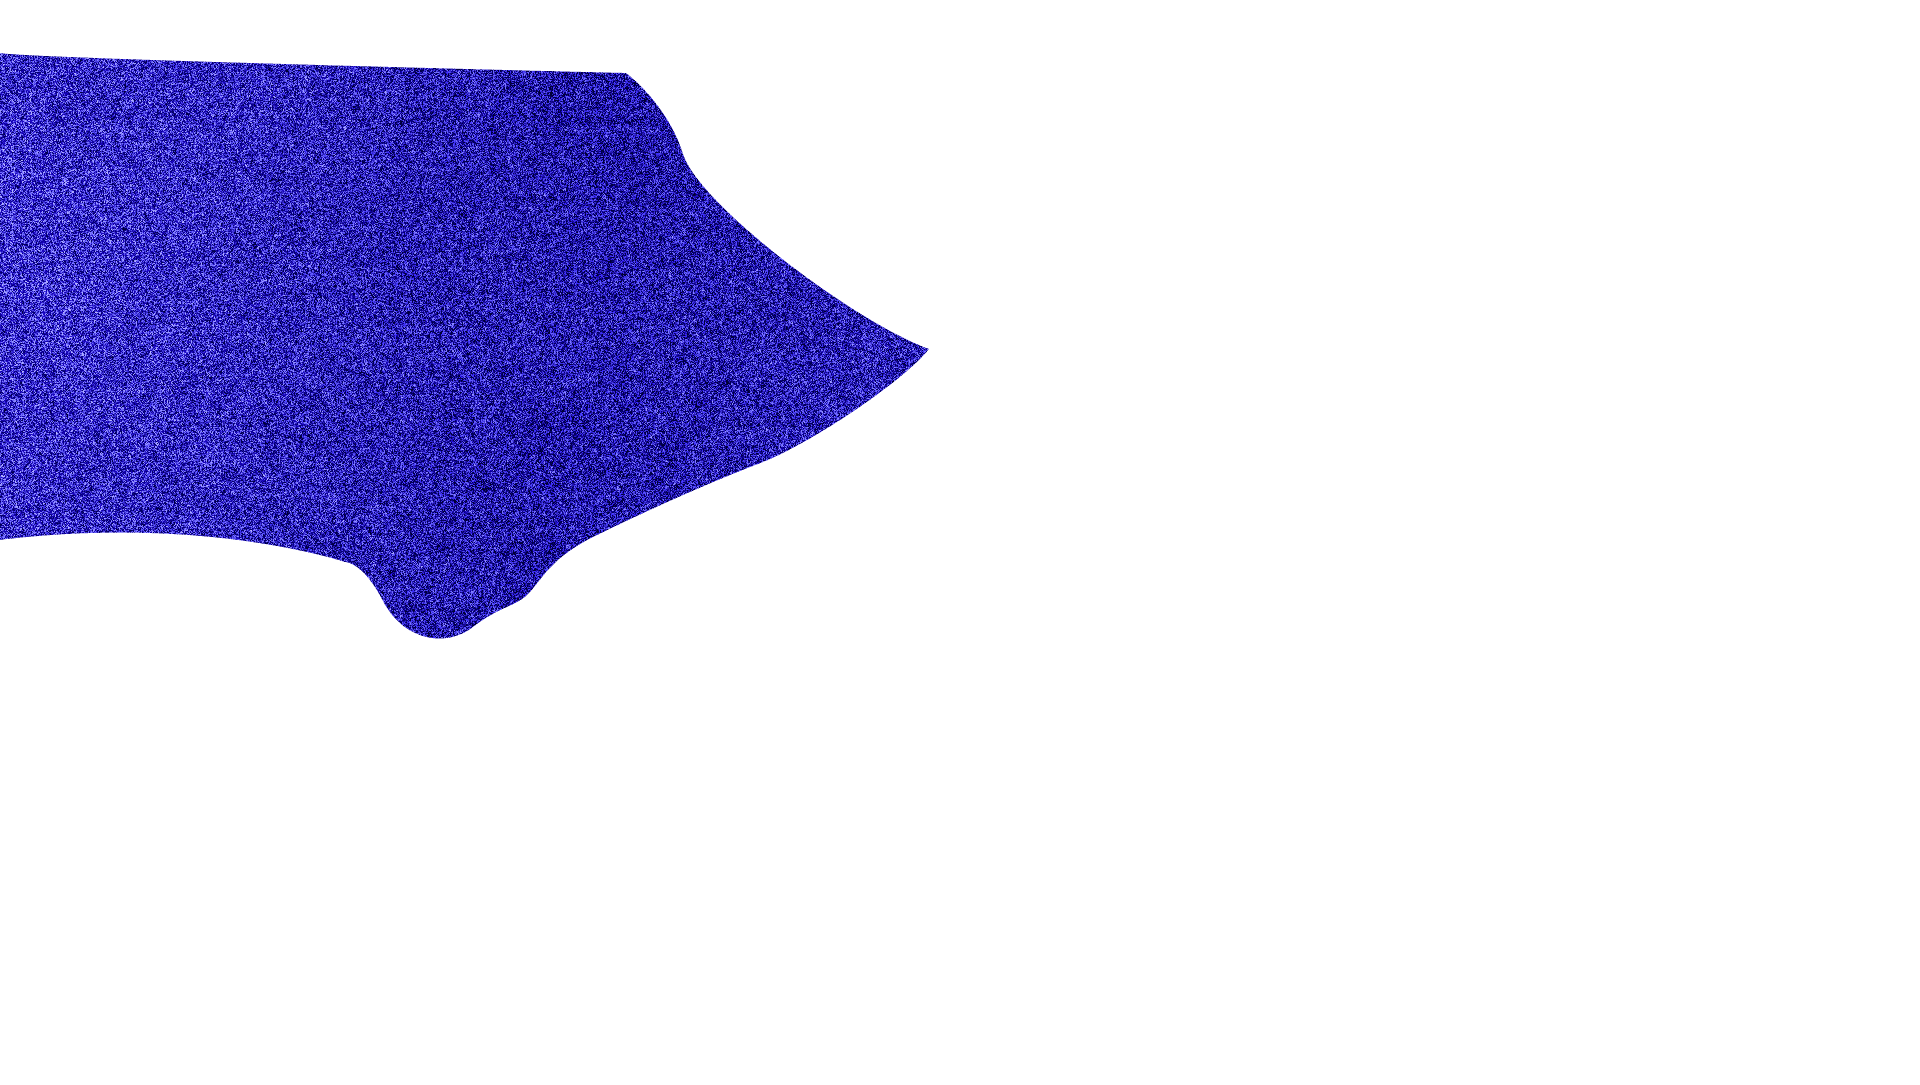
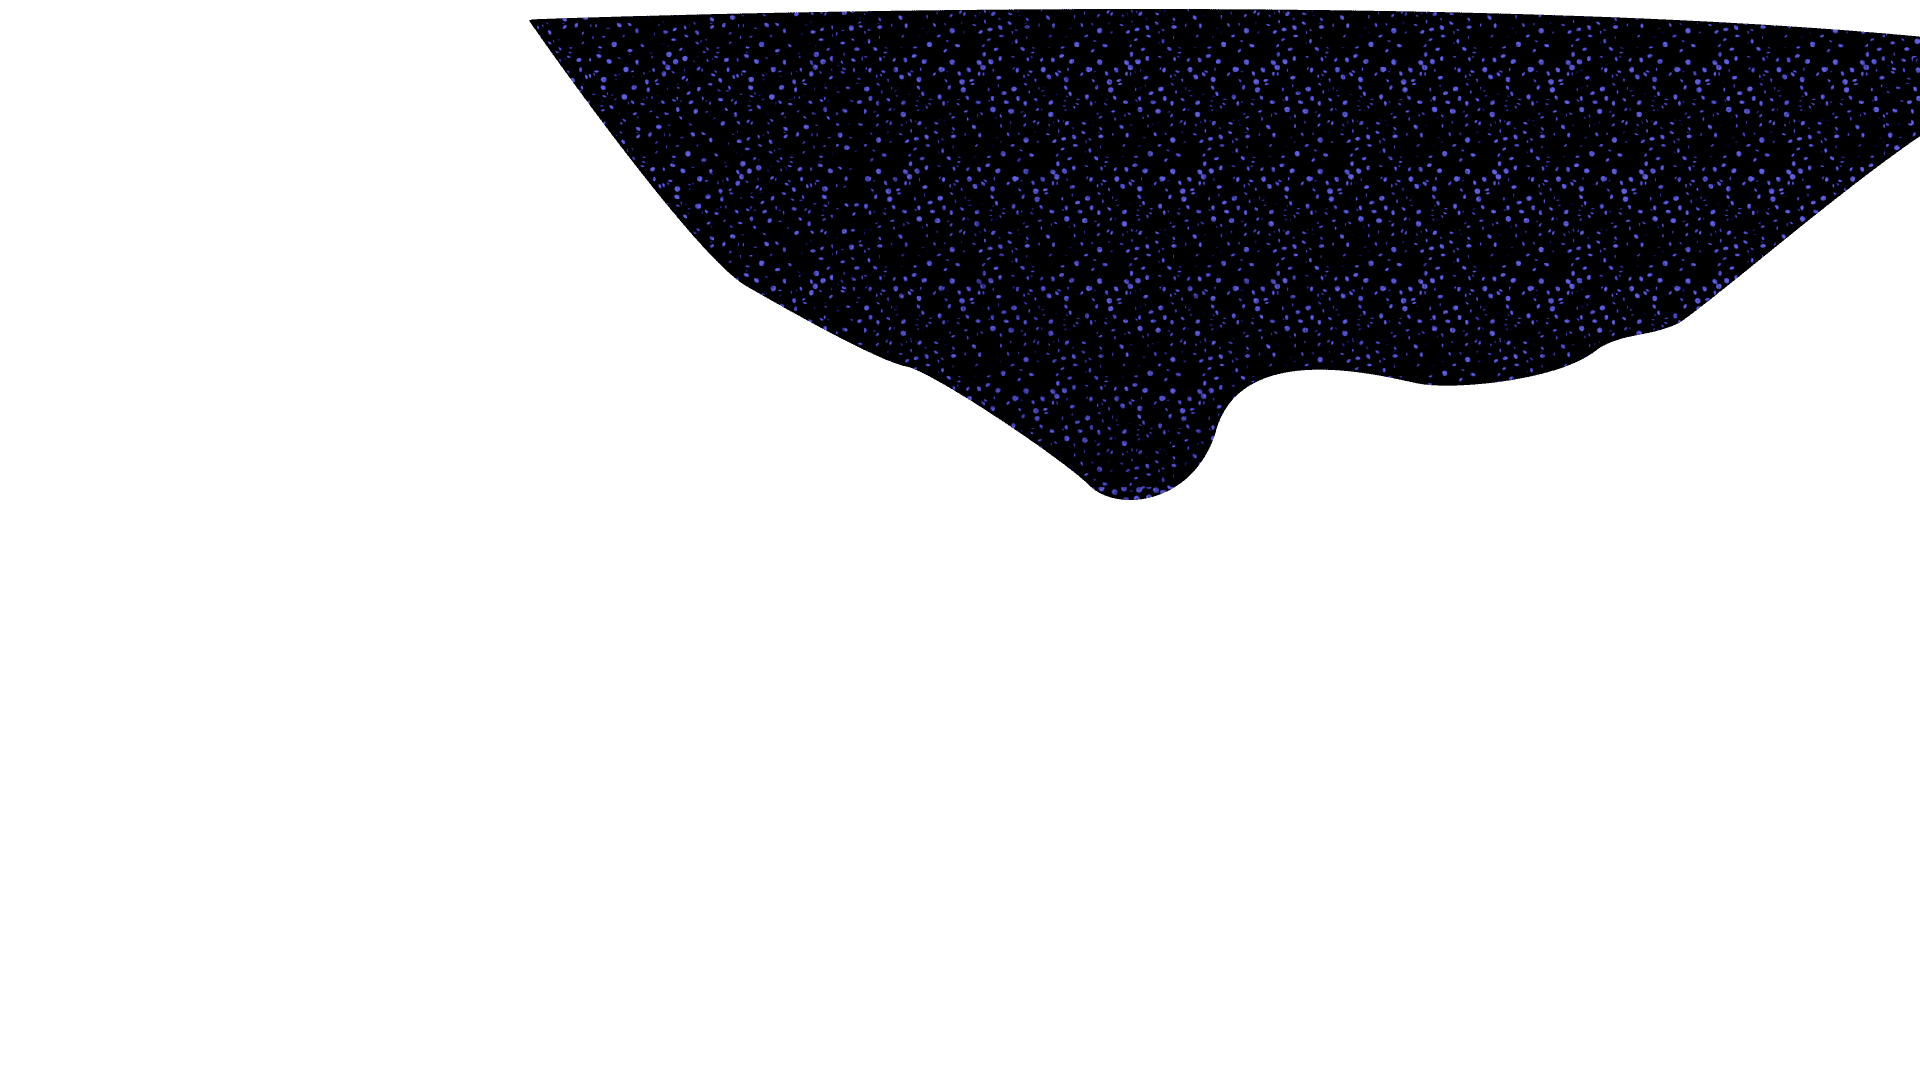
Change deformation image and transtions

diff --git a/src/javascript/components/Carousel.class.js b/src/javascript/components/Carousel.class.js
@@ -30,13 +30,10 @@ class Carousel {
       this.assets = {}
       this.totalHeightSteps = [0]
       STORAGE.ratioVertical = 1
-      STORAGE.carousel.widthSup = false
 
       this.blackboards = []
 
       this.voiceOverLaunch = false
-
-      console.log(STORAGE.carouselClass, STORAGE.carousel, this.carouselDatas.datasImages)
 
       this.init()
       this.bind()
@@ -92,25 +89,11 @@ class Carousel {
         STORAGE.ratioHorizontal = window.innerWidth / that.spritesFonds[objectKey].texture.width
         that.spritesFonds[objectKey].scale = new PIXI.Point(STORAGE.ratioHorizontal , STORAGE.ratioHorizontal)
 
-          console.log(that.spritesFonds[objectKey].height)
-
-          // that.spritesFonds[objectKey].height = window.innerHeight * STORAGE.carousel.numberOfWindow
-
-          // let positionX = Math.abs(window.innerWidth - that.spritesFonds[objectKey].width)
-          // if (window.innerWidth < that.spritesFonds[objectKey].width) {
-          //   that.spritesFonds[objectKey].x = -(positionX / 2)
-          // } else if (window.innerWidth > that.spritesFonds[objectKey].width) {
-          //   that.spritesFonds[objectKey].x = positionX / 2
-          // }
-
-
           for (var i = 0; i < Math.floor(STORAGE.carousel.numberOfWindow); i++) {
             that.totalHeightSteps.push(that.totalHeightSteps[that.totalHeightSteps.length -1] + that.spritesFonds[objectKey].height / Math.floor(STORAGE.carousel.numberOfWindow))
           }
 
           that.spritesFonds[objectKey].zIndex = 1
-
-
       })
 
       let keysForms = Object.keys(that.spritesForms)
@@ -118,22 +101,8 @@ class Carousel {
 
       Object.keys(that.spritesForms).map(function(objectKey, index) {
 
-        // pour que chaque image fasse 100% de hauteur
-
-        // STORAGE.ratioHorizontal = window.innerWidth / that.spritesFonds[objectKey].texture.width
+        // pour que chaque image fasse 100% de largeur
         that.spritesForms[objectKey].scale = new PIXI.Point(STORAGE.ratioHorizontal , STORAGE.ratioHorizontal)
-
-        // STORAGE.ratioVertical = window.innerHeight / that.spritesForms[objectKey].texture.height
-        // that.spritesForms[objectKey].scale = new PIXI.Point(STORAGE.ratioVertical , STORAGE.ratioVertical)
-
-        // STORAGE.carousel.postionHorizontal = Math.abs(window.innerWidth - that.spritesForms[objectKey].width)
-        // if (window.innerWidth < that.spritesForms[objectKey].width) {
-        //   that.spritesForms[objectKey].x = -(STORAGE.carousel.postionHorizontal / 2)
-        //   STORAGE.carousel.widthSup = true
-        // } else if (window.innerWidth > that.spritesForms[objectKey].width) {
-        //   that.spritesForms[objectKey].x = STORAGE.carousel.postionHorizontal / 2
-        //   STORAGE.carousel.widthSup = false
-        // }
 
         // pour placer en y
         if (objectKey == lastForm) {
@@ -153,7 +122,7 @@ class Carousel {
           if (that.carouselNumber == 1) {
             that.spritesForms[objectKey].rapidity = Math.random() * (2 - 0.7) + 0.7
           } else if(that.carouselNumber == 2){
-            that.spritesForms[objectKey].rapidity = Math.random() * (2 - 0.7) + 0.7
+            that.spritesForms[objectKey].rapidity = Math.random() * (0.9 - 0.5) + 0.5
           } else if(that.carouselNumber == 3){
             that.spritesForms[objectKey].rapidity = Math.random() * (0.8 - 0.4) + 0.4
           }
@@ -176,7 +145,6 @@ class Carousel {
     }
 
     handleScroll(e) {
-      console.log(STORAGE.carouselClass)
       if (Math.abs(STORAGE.carousel.y - window.innerHeight) <  STORAGE.carouselClass.totalHeightSteps[1] * STORAGE.carousel.numberOfWindow - 25 && e.deltaY > 0 ) { // stop le défilement au dernier sprite (défile tant que x abs < à largeur totale de tous les spritesFonds-1)
         STORAGE.carousel.y -= Math.abs(e.deltaY) / 5
         STORAGE.carouselClass.doParallax('down')
@@ -195,7 +163,6 @@ class Carousel {
 
     handleResize() {
       STORAGE.renderer.resize(window.innerWidth, window.innerHeight)
-      console.log('test')
       let timeOut
       clearTimeout(timeOut)
       timeOut = setTimeout(()=> {
@@ -209,10 +176,10 @@ class Carousel {
       if (direction == 'down') {
         Object.keys(that.spritesForms).map(function(objectKey, index) {
           if (Math.abs(that.carousel.y + that.spritesForms[objectKey].y) < 1000) {
-            if (that.carouselNumber == 2 && index == 4 || that.carouselNumber == 2 && index == 6 || that.carouselNumber == 2 && index == 10 || that.carouselNumber == 3 && index == 3 || that.carouselNumber == 3 && index == 5 || that.carouselNumber == 3 && index == 16 || that.carouselNumber == 3 && index == 9) {
+            if (that.carouselNumber == 2 && index == 4 || that.carouselNumber == 2 && index == 6 || that.carouselNumber == 2 && index == 12 || that.carouselNumber == 3 && index == 3 || that.carouselNumber == 3 && index == 5 || that.carouselNumber == 3 && index == 16 || that.carouselNumber == 3 && index == 9) {
               return
             }
-            if (that.carouselNumber == 2 && index == 0 || that.carouselNumber == 2 && index == 5 || that.carouselNumber == 2 && index == 3 || that.carouselNumber == 3 && index == 7 || that.carouselNumber == 3 && index == 11) {
+            if (that.carouselNumber == 2 && index == 0 || that.carouselNumber == 2 && index == 7 || that.carouselNumber == 2 && index == 3 || that.carouselNumber == 3 && index == 7 || that.carouselNumber == 3 && index == 11) {
               that.spritesForms[objectKey].y += that.spritesForms[objectKey].rapidity
               return
             }
@@ -222,10 +189,10 @@ class Carousel {
       } else if (direction == 'up') {
         Object.keys(that.spritesForms).map(function(objectKey, index) {
           if (Math.abs(that.carousel.y + that.spritesForms[objectKey].y) < 1000) {
-            if (that.carouselNumber == 2 && index == 4 || that.carouselNumber == 2 && index == 6 || that.carouselNumber == 2 && index == 10 || that.carouselNumber == 3 && index == 3 || that.carouselNumber == 3 && index == 5 || that.carouselNumber == 3 && index == 16 || that.carouselNumber == 3 && index == 9) {
+            if (that.carouselNumber == 2 && index == 4 || that.carouselNumber == 2 && index == 6 || that.carouselNumber == 2 && index == 12 || that.carouselNumber == 3 && index == 3 || that.carouselNumber == 3 && index == 5 || that.carouselNumber == 3 && index == 16 || that.carouselNumber == 3 && index == 9) {
               return
             }
-            if (that.carouselNumber == 2 && index == 0 || that.carouselNumber == 2 && index == 5 || that.carouselNumber == 2 && index == 3 || that.carouselNumber == 3 && index == 7 || that.carouselNumber == 3 && index == 11) {
+            if (that.carouselNumber == 2 && index == 0 || that.carouselNumber == 2 && index == 7 || that.carouselNumber == 2 && index == 3 || that.carouselNumber == 3 && index == 7 || that.carouselNumber == 3 && index == 11) {
               that.spritesForms[objectKey].y -= that.spritesForms[objectKey].rapidity
               return
             }

diff --git a/src/javascript/components/CheckPoint.class.js b/src/javascript/components/CheckPoint.class.js
@@ -33,11 +33,11 @@ class CheckPoint {
   init() {
 
     if (this.context == "Carousel") {
-      this.checkPoint.beginFill(0xffffff, 1)
+      this.checkPoint.beginFill(0xffffff, 0.4)
       this.checkPoint.drawCircle(0, 0, this.carouselDatas.datasBlackboards[this.blackBoardIndex].checkPoints[this.index].rayon)
       this.checkPoint.endFill()
-      this.checkPoint.x = this.carouselDatas.datasBlackboards[this.blackBoardIndex].checkPoints[this.index].x * STORAGE.ratioVertical + this.blackboard.graphicsData[0].shape.x
-      this.checkPoint.y = this.carouselDatas.datasBlackboards[this.blackBoardIndex].checkPoints[this.index].y * STORAGE.ratioVertical + this.blackboard.graphicsData[0].shape.y
+      this.checkPoint.x = this.carouselDatas.datasBlackboards[this.blackBoardIndex].checkPoints[this.index].x * STORAGE.ratioHorizontal + this.blackboard.graphicsData[0].shape.x
+      this.checkPoint.y = this.carouselDatas.datasBlackboards[this.blackBoardIndex].checkPoints[this.index].y * STORAGE.ratioHorizontal + this.blackboard.graphicsData[0].shape.y
       this.checkPoint.interactive = true // pour attribuer événements à this.checkPoint
       this.checkPoint.isChecked = false
       this.blackboard.addChild(this.checkPoint)
@@ -84,7 +84,7 @@ class CheckPoint {
       if (this.blackboard.isTestLaunch) {
 
         if (this.context == "Carousel") {
-          new ImageDeformation()
+          new ImageDeformation({ number : this.carouselNumber })
           this.animateSectionTransition()
         }
         else if (this.context == "VideoIntro") {
@@ -117,20 +117,24 @@ class CheckPoint {
 
     TweenLite.to(textContainer, 2, {
       autoAlpha: 1,
+      ease: Power3.easeInOut,
       delay: 4
     })
 
     let that = this
     TweenLite.to(STORAGE.carousel, 0.5, {
       alpha: 0,
-      delay: 1
+      ease: Power2.easeOut,
+      delay: 0.2
+    })
+    TweenLite.to(textContainer, 0.6, {
+      autoAlpha: 0,
+      ease: Power3.easeInOut,
+      delay: 8
     })
     TweenLite.to([STORAGE.stage], 0.4, {
       alpha: 0,
       onComplete: function() {
-        TweenLite.to(textContainer, 0.2, {
-          autoAlpha: 0
-        })
         setTimeout(function(){
           STORAGE.deformation.destroy()
           STORAGE.carousel.destroy()
@@ -147,9 +151,9 @@ class CheckPoint {
             new ThirdChallenge()
           }
 
-        }, 1000)
+        }, 300)
       },
-      delay: 6.5
+      delay: 8.5
     })
   }
 }

diff --git a/src/javascript/components/ImageDeformation.class.js b/src/javascript/components/ImageDeformation.class.js
@@ -9,6 +9,8 @@ class ImageDeformation {
     STORAGE.deformationClass = this
     STORAGE.deformation = this.deformationContainer
 
+    this.number = options.number
+
     this.assets = {}
 
     this.image
@@ -26,10 +28,24 @@ class ImageDeformation {
   }
 
   init() {
-    STORAGE.loaderClass.loadDeformationPictures([
-      'assets/deformation-eye2.jpg',
-      'assets/displacement_map.png'
-    ])
+
+    if (this.number == 1) {
+      STORAGE.loaderClass.loadDeformationPictures([
+        'assets/deformation-eye1.jpg',
+        'assets/displacement_map.png'
+      ])
+    } else if (this.number == 2) {
+      STORAGE.loaderClass.loadDeformationPictures([
+        'assets/deformation-eye2.png',
+        'assets/displacement_map.png'
+      ])
+    } else if (this.number == 3) {
+      STORAGE.loaderClass.loadDeformationPictures([
+        'assets/deformation-eye3.png',
+        'assets/displacement_map.png'
+      ])
+    }
+
   }
 
   setupDeformationPicturesLoaded() {
@@ -44,8 +60,10 @@ class ImageDeformation {
       this.blurFilter
     ]
     let that = this
-    TweenLite.to(this.deformationContainer, 0.7, {
-      alpha: 1
+    TweenLite.to(this.deformationContainer, 2, {
+      alpha: 1,
+      ease: Power3.easeInOut,
+      delay: 0.6
     })
     this.animate(that)
   }
@@ -60,10 +78,9 @@ class ImageDeformation {
       }
     })
 
-    this.image.scale = new PIXI.Point(STORAGE.ratioVertical, STORAGE.ratioVertical)
+    this.image.scale = new PIXI.Point(STORAGE.ratioHorizontal, STORAGE.ratioHorizontal)
 
     this.deformationContainer.addChild(this.image)
-
 
     STORAGE.stage.addChild(this.deformationContainer)
 
@@ -107,7 +124,7 @@ class ImageDeformation {
       setTimeout(function() {
         it.animateBool = false
         return
-      }, 7000)
+      }, 9000)
 
       if (it.animateBool) {
         it.animate(it);

diff --git a/src/javascript/components/Blackboard.class.js b/src/javascript/components/Blackboard.class.js
@@ -32,13 +32,9 @@ class Blackboard {
     init() {
       if (this.context == "Carousel") {
         this.blackboard.beginFill(0x000000, 0.3)
-        if (STORAGE.carousel.widthSup == true) {
-          this.blackboard.drawRect(this.carouselDatas.datasBlackboards[this.index].x * STORAGE.ratioVertical - (STORAGE.carousel.postionHorizontal / 2) , this.carouselDatas.datasBlackboards[this.index].y * STORAGE.ratioVertical,
-          this.carouselDatas.datasBlackboards[this.index].width * STORAGE.ratioVertical, this.carouselDatas.datasBlackboards[this.index].height * STORAGE.ratioVertical)
-        } else if(STORAGE.carousel.widthSup == false) {
-          this.blackboard.drawRect(this.carouselDatas.datasBlackboards[this.index].x * STORAGE.ratioVertical +  (STORAGE.carousel.postionHorizontal / 2) , this.carouselDatas.datasBlackboards[this.index].y * STORAGE.ratioVertical,
-          this.carouselDatas.datasBlackboards[this.index].width * STORAGE.ratioVertical, this.carouselDatas.datasBlackboards[this.index].height * STORAGE.ratioVertical)
-        }
+
+        this.blackboard.drawRect(this.carouselDatas.datasBlackboards[this.index].x * STORAGE.ratioHorizontal, this.carouselDatas.datasBlackboards[this.index].y * STORAGE.ratioHorizontal,
+        this.carouselDatas.datasBlackboards[this.index].width * STORAGE.ratioHorizontal, this.carouselDatas.datasBlackboards[this.index].height * STORAGE.ratioHorizontal)
 
         this.blackboard.interactive = true // pour attribuer événements à this.blackboard
 

diff --git a/src/javascript/components/SecondChallenge.class.js b/src/javascript/components/SecondChallenge.class.js
@@ -6,7 +6,7 @@ class SecondChallenge {
 
   constructor(options) {
     this.SecondChallengeContainer = new PIXI.Container()
-    this.SecondChallengeContainer.alpha = 1
+    this.SecondChallengeContainer.alpha = 0
     this.SecondChallengeContainer.interactive = true
     STORAGE.SecondChallengeClass = this
     STORAGE.SecondChallengeContainer = this.SecondChallengeContainer
@@ -77,8 +77,9 @@ class SecondChallenge {
     TweenLite.set(STORAGE.stage, {
       alpha: 1
     })
-    TweenLite.to(this.SecondChallengeContainer, 0.6, {
-      alpha: 1
+    TweenLite.to(this.SecondChallengeContainer, 2, {
+      alpha: 1,
+      ease: Power4.easeInOut
     })
   }
 

diff --git a/src/javascript/datas/secondCarouselDatas.js b/src/javascript/datas/secondCarouselDatas.js
@@ -11,9 +11,10 @@ const secondCarouselDatas = {
     'assets/before-challenge-2/2-forme-3.png',
     'assets/before-challenge-2/3-forme-1.png',
     'assets/before-challenge-2/4-forme-1.png',
-    'assets/before-challenge-2/4-forme-2.png',
-    'assets/before-challenge-2/5-forme-1.png',
     'assets/before-challenge-2/5-forme-2.png',
+    'assets/before-challenge-2/5-forme-1.png',
+    'assets/before-challenge-2/4-forme-2.png',
+    'assets/before-challenge-2/5-forme-3.png',
   ],
   datasEyes: [
     {

diff --git a/src/javascript/components/ThirdChallenge.class.js b/src/javascript/components/ThirdChallenge.class.js
@@ -48,11 +48,14 @@ class ThirdChallenge {
     TweenLite.set(STORAGE.stage, {
       alpha: 1
     })
-    TweenLite.to(this.ThirdChallengeContainer, 0.6, {
-      alpha: 1
+    TweenLite.to(this.ThirdChallengeContainer, 2, {
+      alpha: 1,
+      ease: Power4.easeInOut
     })
-    TweenLite.to(this.thirdChallengeHtmlElements, 1.2, {
-      autoAlpha: 1
+    TweenLite.to(this.thirdChallengeHtmlElements, 0.8, {
+      autoAlpha: 1,
+      ease: Power2.easeInOut,
+      delay: 1.8
     })
   }
 

diff --git a/src/javascript/components/FirstChallenge.class.js b/src/javascript/components/FirstChallenge.class.js
@@ -60,8 +60,9 @@ class FirstChallenge {
     TweenLite.set(STORAGE.stage, {
       alpha: 1
     })
-    TweenLite.to(this.FirstChallengeContainer, 0.6, {
-      alpha: 1
+    TweenLite.to(this.FirstChallengeContainer, 2, {
+      alpha: 1,
+      ease: Power4.easeInOut
     })
   }
 

diff --git a/src/index.html b/src/index.html
@@ -39,7 +39,7 @@
         <!-- svg -->
       </div>
     </div>
-    
+
     <div class="js-menu">
 	    <ul id="menu">
 	    	<li class ="icone"><a href="#" id="icone1"><img src="assets/menu/picto-burger.png"></a></li>

diff --git a/src/javascript/datas/firstCarouselDatas.js b/src/javascript/datas/firstCarouselDatas.js
@@ -51,7 +51,7 @@ const firstCarouselDatas = {
         width: 400,
         height: 400,
         x: 740,
-        y: 7900,
+        y: 9050,
         checkPoints : [{
           rayon: 30,
           x: 200,
